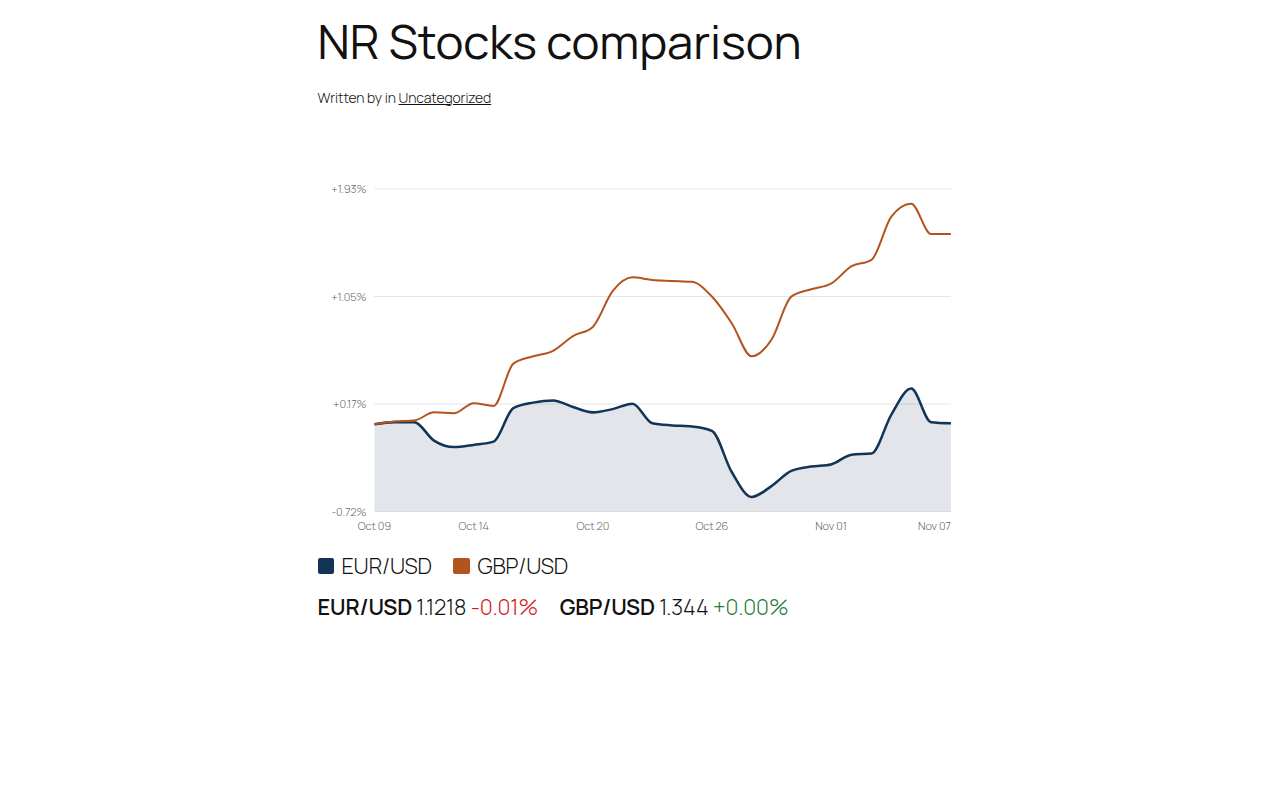
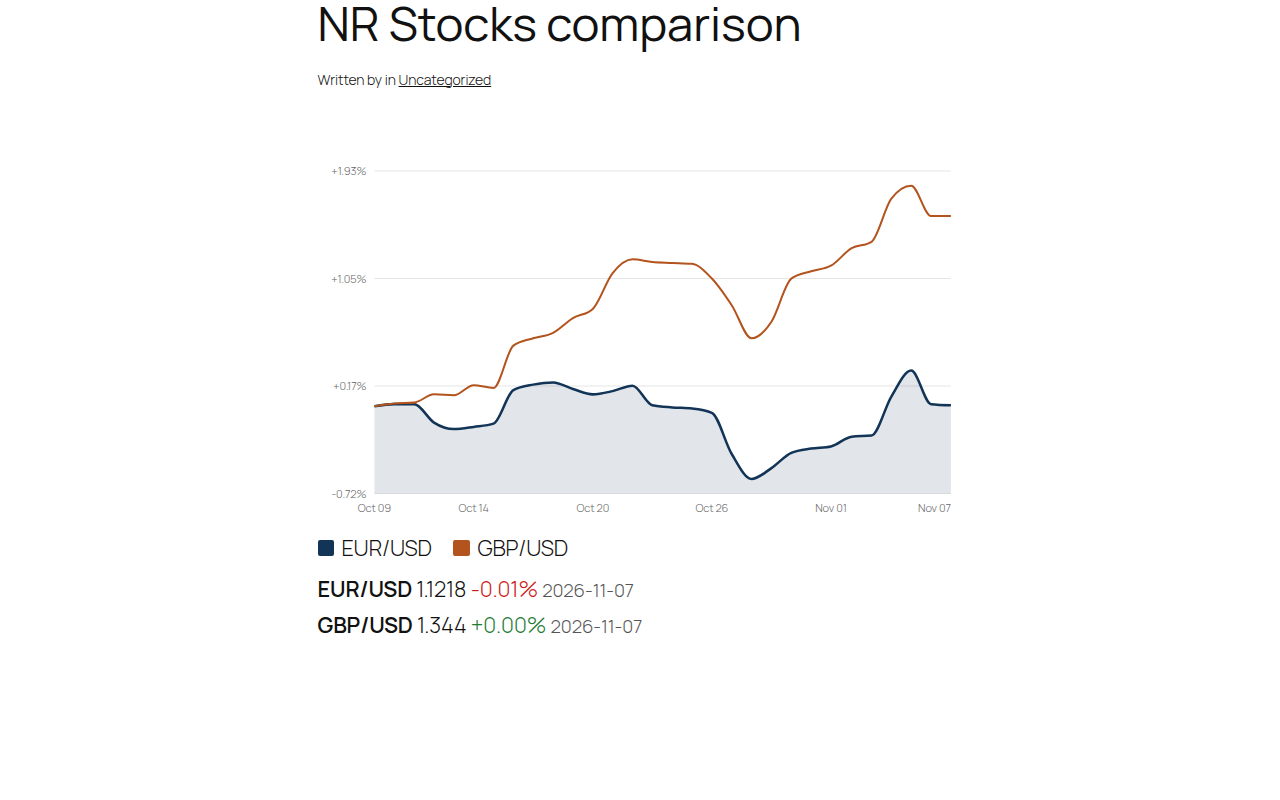
fix: correct provider symbols, search and pair handling, and date the quote panel

diff --git a/src/shared/chart.js b/src/shared/chart.js
@@ -318,7 +318,10 @@ export function renderQuotesHTML( quotes ) {
 			const currency = quote.currency
 				? ` ${ escapeXml( quote.currency ) }`
 				: '';
-			return `<li class="nr-stocks-quote"><span class="nr-stocks-quote__symbol">${ escapeXml( symbol ) }</span> <span class="nr-stocks-quote__price">${ formatQuoteNumber( quote.price ) }${ currency }</span> ${ change }</li>`;
+			const date = quote.date
+				? ` <span class="nr-stocks-quote__date">${ escapeXml( String( quote.date ).slice( 0, 10 ) ) }</span>`
+				: '';
+			return `<li class="nr-stocks-quote"><span class="nr-stocks-quote__symbol">${ escapeXml( symbol ) }</span> <span class="nr-stocks-quote__price">${ formatQuoteNumber( quote.price ) }${ currency }</span> ${ change }${ date }</li>`;
 		} )
 		.join( '' );
 	return items ? `<ul class="nr-stocks-quotes">${ items }</ul>` : '';

diff --git a/src/shared/chart.test.js b/src/shared/chart.test.js
@@ -222,6 +222,16 @@ describe( 'renderQuotesHTML', () => {
 		expect( html ).not.toContain( '%' );
 	} );
 
+	it( 'shows the date of the price', () => {
+		const html = renderQuotesHTML( [
+			{
+				symbol: 'A',
+				quote: { price: 1, date: '2022-03-01 10:00:00' },
+			},
+		] );
+		expect( html ).toContain( '>2022-03-01<' );
+	} );
+
 	it( 'escapes upstream text', () => {
 		const html = renderQuotesHTML( [
 			{

diff --git a/src/blocks/stock-info/style.scss b/src/blocks/stock-info/style.scss
@@ -34,6 +34,11 @@
 	font-weight: 600;
 }
 
+.nr-stocks-quote__date {
+	color: #555;
+	font-size: 0.85em;
+}
+
 .nr-stocks-quote__change.is-up {
 	color: #1e7b34;
 }

diff --git a/tests/phpunit/RestProviderTest.php b/tests/phpunit/RestProviderTest.php
@@ -79,6 +79,7 @@ class NR_Stocks_Rest_Provider_Test extends WP_UnitTestCase {
 		$this->assertStringContainsString( 'function=DIGITAL_CURRENCY_DAILY', $this->mock_calls[4] );
 		$this->assertStringContainsString( 'symbol=BTC', $this->mock_calls[4] );
 		$this->assertStringContainsString( 'market=USD', $this->mock_calls[4] );
+		$this->assertStringContainsString( 'symbol=BTC&', $this->mock_calls[4] );
 	}
 
 	public function test_av_quote_strips_percent() {
@@ -165,7 +166,15 @@ class NR_Stocks_Rest_Provider_Test extends WP_UnitTestCase {
 		$this->mock_http( self::fixture( 'frankfurter_currencies.json' ) );
 		$search = Rest_Provider::search( 'frankfurter', 'dollar' );
 		$this->assertTrue( $search['ok'] );
-		$this->assertSame( 'USD', $search['data'][0]['symbol'] );
+		$this->assertSame( 'USD/EUR', $search['data'][0]['symbol'] );
+
+		$this->mock_http( self::fixture( 'frankfurter_currencies.json' ) );
+		$euro = Rest_Provider::search( 'frankfurter', 'euro' );
+		$this->assertSame( 'EUR/USD', $euro['data'][0]['symbol'] );
+
+		$this->mock_http( self::fixture( 'frankfurter_currencies.json' ) );
+		$coins = Rest_Provider::search( 'frankfurter', 'coin' );
+		$this->assertSame( array(), $coins['data'] );
 	}
 
 	public function test_coingecko_series_quote_and_local_search() {
@@ -173,7 +182,7 @@ class NR_Stocks_Rest_Provider_Test extends WP_UnitTestCase {
 		$result = Rest_Provider::series( 'coingecko', 'BTC/USD', 'daily', 30 );
 		$this->assertTrue( $result['ok'] );
 		$this->assertCount( 3, $result['data'] );
-		$this->assertSame( '2026-11-03 16:00:00', $result['data'][0]['date'] );
+		$this->assertSame( '2026-11-03', $result['data'][0]['date'] );
 		$this->assertSame( 77623.43, $result['data'][0]['close'] );
 		$this->assertStringContainsString( '/coins/bitcoin/market_chart', $this->mock_calls[0] );
 		$this->assertStringContainsString( 'vs_currency=usd', $this->mock_calls[0] );
@@ -283,6 +292,19 @@ class NR_Stocks_Rest_Provider_Test extends WP_UnitTestCase {
 		$this->assertGreaterThan( 1, count( $long['data'] ) );
 	}
 
+	public function test_pairs_outside_the_fiat_list_reach_forex_providers() {
+		$this->mock_http( self::fixture( 'frankfurter.json' ) );
+		$listed = Rest_Provider::series( 'frankfurter', 'EUR/RON', 'daily', 30 );
+		$this->assertTrue( $listed['ok'] );
+		$this->assertSame( 'forex', $listed['meta']['asset'] );
+
+		$this->mock_http( self::fixture( 'frankfurter.json' ) );
+		$unlisted = Rest_Provider::series( 'frankfurter', 'EUR/XAF', 'daily', 30 );
+		$this->assertTrue( $unlisted['ok'] );
+		$this->assertSame( 'forex', $unlisted['meta']['asset'] );
+		$this->assertStringContainsString( 'quotes=XAF', end( $this->mock_calls ) );
+	}
+
 	public function test_coingecko_daily_series_has_one_row_per_day() {
 		$start  = 1793721600000;
 		$prices = array();
@@ -296,6 +318,21 @@ class NR_Stocks_Rest_Provider_Test extends WP_UnitTestCase {
 		$last  = strtotime( $result['data'][29]['date'] );
 		$this->assertGreaterThan( 28 * DAY_IN_SECONDS, $last - $first );
 		$this->assertSame( (float) ( 100 + 24 * 40 - 1 ), (float) $result['data'][29]['close'] );
+	}
+
+	public function test_coingecko_midnight_point_closes_the_previous_day() {
+		$midnight = gmmktime( 0, 0, 0, 11, 5, 2026 ) * 1000;
+		$prices   = array(
+			array( $midnight - 3600000, 10 ),
+			array( $midnight, 20 ),
+			array( $midnight + 3600000, 30 ),
+		);
+		$this->mock_http( wp_json_encode( array( 'prices' => $prices ) ) );
+		$rows = Rest_Provider::series( 'coingecko', 'BTC/USD', 'daily', 30 )['data'];
+		$this->assertSame( '2026-11-04', $rows[0]['date'] );
+		$this->assertSame( 20, (int) $rows[0]['close'] );
+		$this->assertSame( '2026-11-05', $rows[1]['date'] );
+		$this->assertSame( 30, (int) $rows[1]['close'] );
 	}
 
 	/**

diff --git a/inc/Providers/Rest_Provider.php b/inc/Providers/Rest_Provider.php
@@ -65,6 +65,25 @@ class Rest_Provider {
 		'AED',
 		'SAR',
 		'RUB',
+		'RON',
+		'BGN',
+		'ISK',
+		'UAH',
+		'EGP',
+		'VND',
+		'CLP',
+		'COP',
+		'PEN',
+		'ARS',
+		'PKR',
+		'NGN',
+		'KES',
+		'MAD',
+		'QAR',
+		'KWD',
+		'BHD',
+		'OMR',
+		'JOD',
 	);
 
 	/**
@@ -104,6 +123,13 @@ class Rest_Provider {
 		}
 		$asset = self::detect_asset( $symbol );
 		$op    = self::find_series_op( $config, $series, $asset );
+		if ( null === $op && 'crypto' === $asset ) {
+			// A pair outside the fiat list may still be served by a forex provider.
+			$op = self::find_series_op( $config, $series, 'forex' );
+			if ( null !== $op ) {
+				$asset = 'forex';
+			}
+		}
 		if ( null === $op ) {
 			return self::error( 'unsupported_series' );
 		}
@@ -701,7 +727,15 @@ class Rest_Provider {
 			// the list-of-objects and code->name-map shapes, then filter.
 			$table = array();
 			if ( self::is_list( $decoded ) ) {
-				$table = $decoded;
+				foreach ( $decoded as $row ) {
+					if ( ! is_array( $row ) || ( isset( $row['type'] ) && 'crypto' === $row['type'] ) ) {
+						continue;
+					}
+					if ( ! isset( $row['code'] ) && isset( $row['iso_code'] ) ) {
+						$row['code'] = $row['iso_code'];
+					}
+					$table[] = $row;
+				}
 			} else {
 				foreach ( $decoded as $code => $name ) {
 					$table[] = array(
@@ -710,9 +744,17 @@ class Rest_Provider {
 					);
 				}
 			}
+			$matches = self::filter_local( $table, $map, $query );
+			if ( isset( $op['pair_with'] ) && is_array( $op['pair_with'] ) ) {
+				foreach ( $matches as &$match ) {
+					$quote           = $match['symbol'] === $op['pair_with'][0] ? $op['pair_with'][1] : $op['pair_with'][0];
+					$match['symbol'] = $match['symbol'] . '/' . $quote;
+				}
+				unset( $match );
+			}
 			return array(
 				'ok'   => true,
-				'data' => self::filter_local( $table, $map, $query ),
+				'data' => $matches,
 			);
 		}
 
@@ -921,15 +963,20 @@ class Rest_Provider {
 			if ( $ms ) {
 				$ts = (int) floor( $ts / 1000 );
 			}
-			$row = array(
-				'date' => gmdate( 'Y-m-d H:i:s', $ts ),
-				$field => (float) $pair[1],
-			);
 			if ( ! empty( $spec['per_day'] ) ) {
-				// Input is oldest first, so each day keeps its latest price.
-				$rows[ gmdate( 'Y-m-d', $ts ) ] = $row;
+				// Input is oldest first, so each day keeps its latest price. A
+				// 00:00 point is the previous day's close, which is how longer
+				// ranges report every day.
+				$day          = gmdate( 'Y-m-d', $ts - 1 );
+				$rows[ $day ] = array(
+					'date' => $day,
+					$field => (float) $pair[1],
+				);
 			} else {
-				$rows[] = $row;
+				$rows[] = array(
+					'date' => gmdate( 'Y-m-d H:i:s', $ts ),
+					$field => (float) $pair[1],
+				);
 			}
 		}
 		return array_values( $rows );

diff --git a/tests/phpunit/ShortcodeTest.php b/tests/phpunit/ShortcodeTest.php
@@ -70,40 +70,41 @@ class NR_Stocks_Shortcode_Test extends WP_UnitTestCase {
 		$this->assertGreaterThan( has_filter( 'the_content', 'do_blocks' ), $priority );
 	}
 
-	/**
-	 * Runs alone because the constant cannot be undefined.
-	 *
-	 * @runInSeparateProcess
-	 * @preserveGlobalState disabled
-	 */
 	public function test_temporary_failure_marks_the_page_uncacheable() {
+		$before = did_action( 'nr_stocks_page_uncacheable' );
 		$this->mock_http( '', 500 );
 		do_shortcode( '[nr-stocks symbols="IBM" provider="alphavantage"]' );
+		$this->assertSame( $before + 1, did_action( 'nr_stocks_page_uncacheable' ) );
 		$this->assertTrue( defined( 'DONOTCACHEPAGE' ) );
 	}
 
-	/**
-	 * Runs alone because the constant cannot be undefined.
-	 *
-	 * @runInSeparateProcess
-	 * @preserveGlobalState disabled
-	 */
+	public function test_partial_failure_marks_the_page_uncacheable() {
+		$before = did_action( 'nr_stocks_page_uncacheable' );
+		$this->mock_http( self::fixture( 'av_daily.csv' ) );
+		$this->mock_http( '', 500 );
+		do_shortcode( '[nr-stocks symbols="IBM,MSFT" provider="alphavantage"]' );
+		$this->assertGreaterThan( $before, did_action( 'nr_stocks_page_uncacheable' ) );
+	}
+
 	public function test_temporary_quote_failure_marks_the_page_uncacheable() {
+		$before = did_action( 'nr_stocks_page_uncacheable' );
 		$this->mock_http( self::fixture( 'av_daily.csv' ) );
 		$this->mock_http( self::fixture( 'av_note_multiline.json' ) );
 		do_shortcode( '[nr-stocks symbols="IBM" provider="alphavantage" quote="1"]' );
-		$this->assertTrue( defined( 'DONOTCACHEPAGE' ) );
+		$this->assertSame( $before + 1, did_action( 'nr_stocks_page_uncacheable' ) );
 	}
 
-	/**
-	 * Runs alone because the constant cannot be undefined.
-	 *
-	 * @runInSeparateProcess
-	 * @preserveGlobalState disabled
-	 */
 	public function test_permanent_failure_leaves_page_caching_alone() {
+		$before = did_action( 'nr_stocks_page_uncacheable' );
 		do_shortcode( '[nr-stocks symbols="AAPL" provider="frankfurter"]' );
-		$this->assertFalse( defined( 'DONOTCACHEPAGE' ) );
+		$this->assertSame( $before, did_action( 'nr_stocks_page_uncacheable' ) );
+	}
+
+	public function test_success_leaves_page_caching_alone() {
+		$before = did_action( 'nr_stocks_page_uncacheable' );
+		$this->mock_http( self::fixture( 'av_daily.csv' ) );
+		do_shortcode( '[nr-stocks symbols="IBM" provider="alphavantage"]' );
+		$this->assertSame( $before, did_action( 'nr_stocks_page_uncacheable' ) );
 	}
 
 	public function test_only_temporary_errors_are_kept_out_of_page_caches() {

diff --git a/inc/Providers/Configs.php b/inc/Providers/Configs.php
@@ -92,7 +92,7 @@ class Configs {
 					),
 					array(
 						'assets'      => array( 'crypto' ),
-						'url'         => '{host}/query?function=DIGITAL_CURRENCY_DAILY&symbol={symbol}&market={market}&apikey={key}&datatype=csv',
+						'url'         => '{host}/query?function=DIGITAL_CURRENCY_DAILY&symbol={from}&market={market}&apikey={key}&datatype=csv',
 						'format'      => 'csv',
 						'order'       => 'desc',
 						'map'         => $csv_rows,
@@ -161,7 +161,7 @@ class Configs {
 					'currency' => '8. currency',
 				),
 			),
-			'rate_note'   => 'Free: 25 requests/day. Unlimited for verified open-source projects.',
+			'rate_note'   => 'Free: 25 requests/day and the latest 100 points per series. Unlimited for verified open-source projects.',
 		);
 	}
 
@@ -304,6 +304,8 @@ class Configs {
 				'url'          => '{host}/v2/currencies',
 				'format'       => 'json',
 				'local_filter' => true,
+				// Currency codes alone are not chartable: results are offered as pairs.
+				'pair_with'    => array( 'USD', 'EUR' ),
 				'map'          => array(
 					'symbol' => 'code',
 					'name'   => 'name',
@@ -322,7 +324,7 @@ class Configs {
 		return array(
 			'id'          => 'coingecko',
 			'label'       => 'CoinGecko (crypto, no key)',
-			'description' => 'Crypto spot prices and history. No key at low limits; a free key raises them.',
+			'description' => 'Crypto spot prices and history. Keyless, with rate limits.',
 			'needs_key'   => false,
 			'key_setting' => 'coingecko',
 			'key_url'     => 'https://docs.coingecko.com/',
@@ -364,7 +366,7 @@ class Configs {
 					'name'   => 'name',
 				),
 			),
-			'rate_note'   => 'Free demo with rate limits; an optional key raises them.',
+			'rate_note'   => 'Free demo with rate limits.',
 		);
 	}
 

diff --git a/inc/Renderer.php b/inc/Renderer.php
@@ -150,6 +150,10 @@ class Renderer {
 		if ( ! headers_sent() ) {
 			nocache_headers();
 		}
+		/**
+		 * Fires when a temporary data failure keeps the page out of page caches.
+		 */
+		do_action( 'nr_stocks_page_uncacheable' );
 	}
 
 	/**

diff --git a/CHANGELOG.md b/CHANGELOG.md
@@ -11,6 +11,8 @@ All notable changes to this project are documented in this file.
 - Saved 0.x charts load the view script and use the site's real REST URL, including plain permalinks and subdirectory installs.
 - The quote panel and a comparison legend now appear on the frontend.
 - CoinGecko daily charts show one point per day instead of the last hours, and Frankfurter weekly and monthly charts return the requested number of points.
+- Alpha Vantage crypto charts send the coin as the symbol, Frankfurter symbol search works with its current API and offers chartable pairs, and forex pairs outside the built-in list reach forex providers.
+- The quote panel shows the date of each price.
 - Alpha Vantage JSON notes on CSV calls report `upstream_limit` or `upstream_error` instead of an empty cached result.
 - Saving settings before the option exists no longer corrupts the cross-origin host list.
 - A block or shortcode with no symbols renders nothing instead of an error notice and a PHP warning.

diff --git a/README.md b/README.md
@@ -84,6 +84,8 @@ test stack (`NRSTX_TEST_PORT`, `NRSTX_WP_VERSION`).
 4. The **Deploy to WordPress.org** workflow runs after the GitHub Release
    and pushes the tag to SVN (needs `SVN_USERNAME` / `SVN_PASSWORD` secrets;
    until the SVN repo exists it verifies the payload and skips the upload).
+   Running **Create GitHub Release** by hand from a branch publishes the release
+   but skips the deploy, so select the tag as the ref.
    A tag released before the repo existed needs one manual run: dispatch the
    workflow with that tag as the ref. Tags older than this workflow's
    `workflow_dispatch` trigger cannot be re-run, so cut a new release instead.
